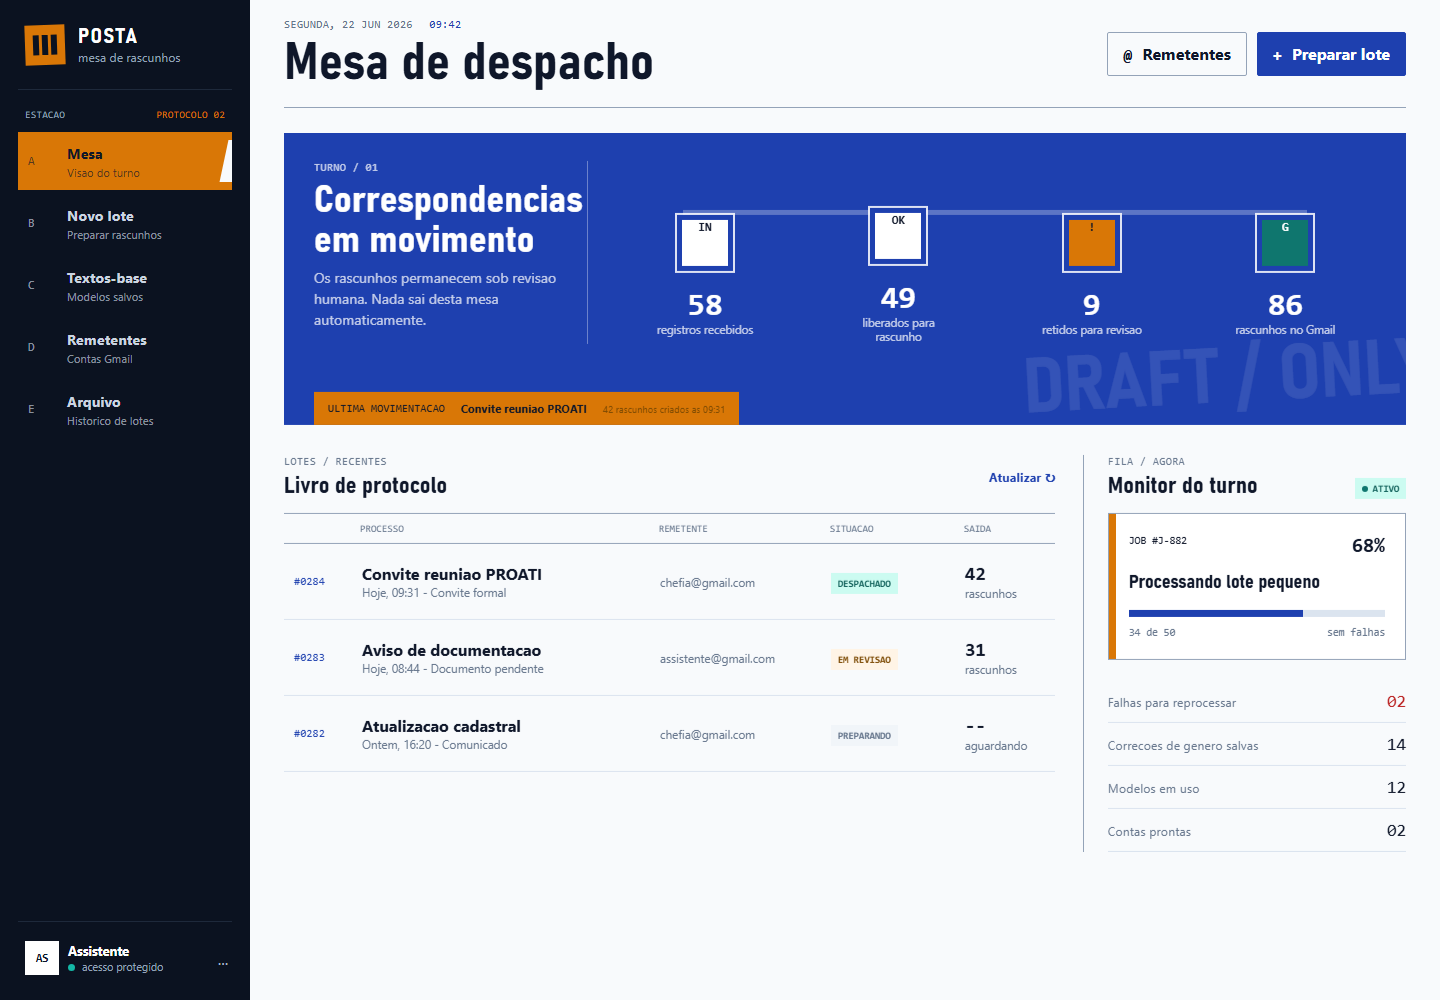
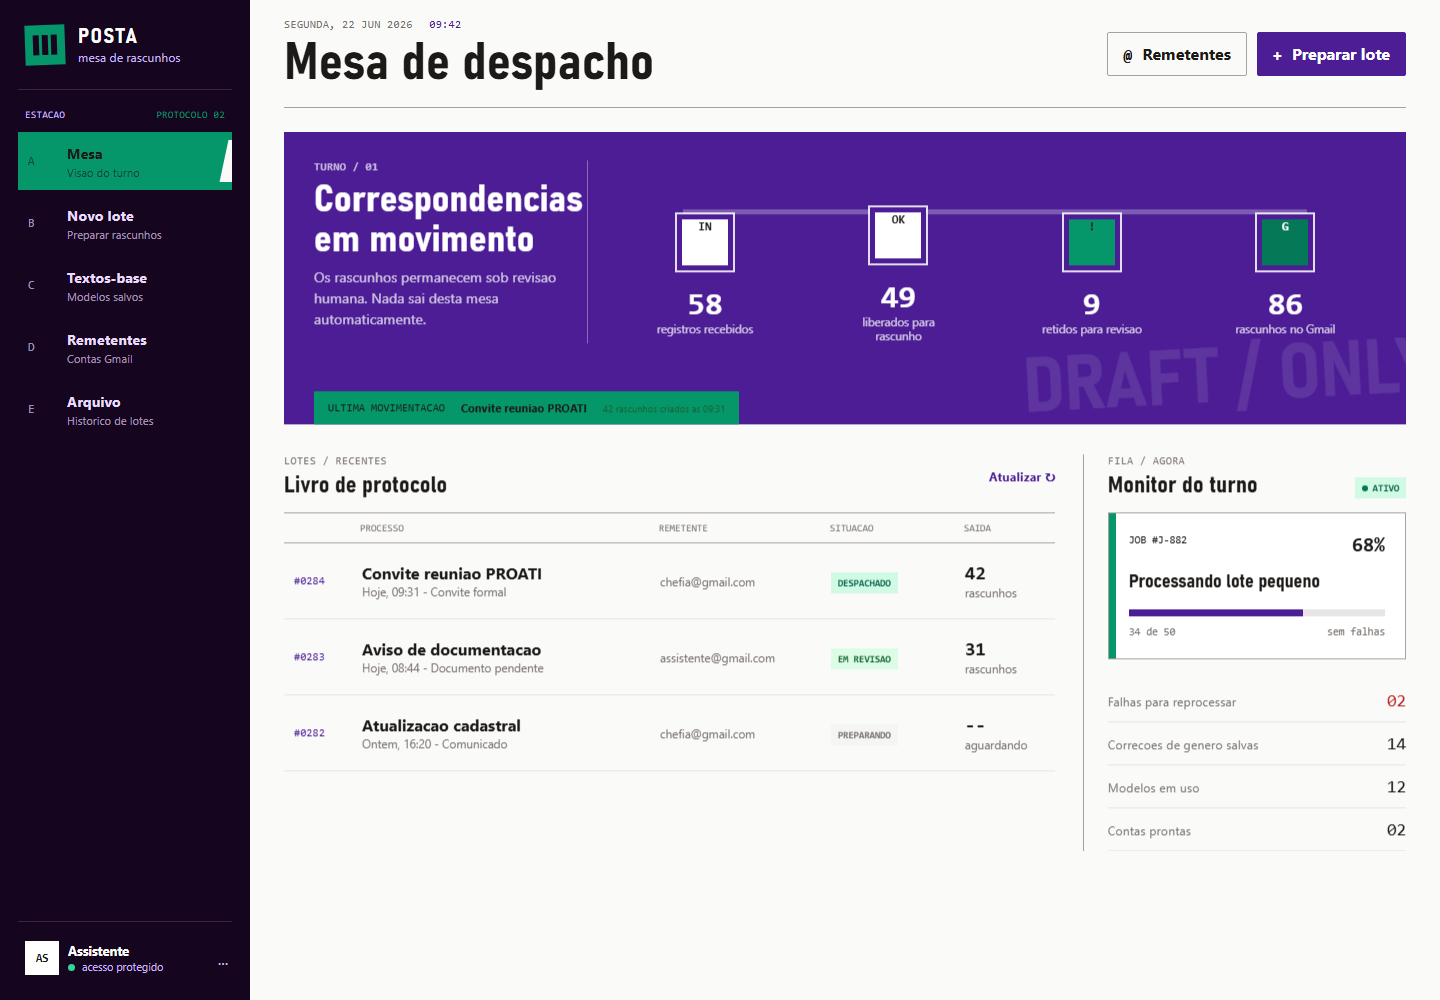
troca paleta para roxo escuro e menta

diff --git a/styles.css b/styles.css
@@ -1,47 +1,47 @@
 :root {
-  --paper: #f8fafc;
+  --paper: #fafaf9;
   --white: #ffffff;
-  --ink: #0f172a;
-  --muted: #64748b;
-  --line: #dbe4ef;
-  --line-dark: #94a3b8;
-  --postal: #1e40af;
-  --postal-hover: #1e3a8a;
-  --postal-soft: #e9eefc;
-  --postal-ring: rgba(30, 64, 175, 0.28);
-  --sort-yellow: #d97706;
-  --sort-soft: #fff4e6;
-  --sort-line: #e5b86f;
-  --sort-text: #7c4a03;
-  --sort-ink: #2f1b04;
+  --ink: #1c1917;
+  --muted: #78716c;
+  --line: #e7e5e4;
+  --line-dark: #a8a29e;
+  --postal: #4c1d95;
+  --postal-hover: #3b0764;
+  --postal-soft: #f3e8ff;
+  --postal-ring: rgba(124, 58, 237, 0.28);
+  --sort-yellow: #059669;
+  --sort-soft: #dcfce7;
+  --sort-line: #86efac;
+  --sort-text: #166534;
+  --sort-ink: #0c0a09;
   --coral: #b91c1c;
   --coral-soft: #fee2e2;
-  --dispatch: #0f766e;
-  --dispatch-soft: #ccfbf1;
-  --dispatch-text: #0f5f59;
-  --violet: #6d5bd0;
-  --sidebar: #0b1220;
-  --sidebar-hover: #111c2f;
-  --sidebar-line: #1e293b;
-  --sidebar-text: #cbd5e1;
-  --sidebar-muted: #94a3b8;
-  --sidebar-control: #a7b4c6;
-  --status-dot: #14b8a6;
-  --surface-muted: #f1f5f9;
-  --surface-subtle: #f8fafc;
-  --control-track: #cbd5e1;
-  --dark-meter: #1e293b;
-  --dark-line: #334155;
-  --dark-muted: #94a3b8;
+  --dispatch: #047857;
+  --dispatch-soft: #d1fae5;
+  --dispatch-text: #065f46;
+  --violet: #7c3aed;
+  --sidebar: #16051f;
+  --sidebar-hover: #24102f;
+  --sidebar-line: #3b224d;
+  --sidebar-text: #eadcff;
+  --sidebar-muted: #c4b5fd;
+  --sidebar-control: #d8b4fe;
+  --status-dot: #34d399;
+  --surface-muted: #f5f5f4;
+  --surface-subtle: #fffdf9;
+  --control-track: #d6d3d1;
+  --dark-meter: #271235;
+  --dark-line: #3b224d;
+  --dark-muted: #c4b5fd;
   --white-ghost: rgba(255, 255, 255, 0.1);
   --white-line: rgba(255, 255, 255, 0.35);
   --white-muted: rgba(255, 255, 255, 0.75);
   --white-rail: rgba(255, 255, 255, 0.28);
   --white-outline: rgba(255, 255, 255, 0.85);
-  --shadow-soft: rgba(15, 23, 42, 0.16);
-  --shadow-strong: rgba(15, 23, 42, 0.22);
-  --scrim: rgba(15, 23, 42, 0.62);
-  --dispatch-glow: rgba(15, 118, 110, 0.16);
+  --shadow-soft: rgba(28, 10, 37, 0.16);
+  --shadow-strong: rgba(28, 10, 37, 0.22);
+  --scrim: rgba(28, 10, 37, 0.66);
+  --dispatch-glow: rgba(4, 120, 87, 0.16);
   --display: "Bahnschrift SemiCondensed", "Arial Narrow", sans-serif;
   --body: Aptos, "Segoe UI", Arial, sans-serif;
   --utility: Consolas, "Courier New", monospace;